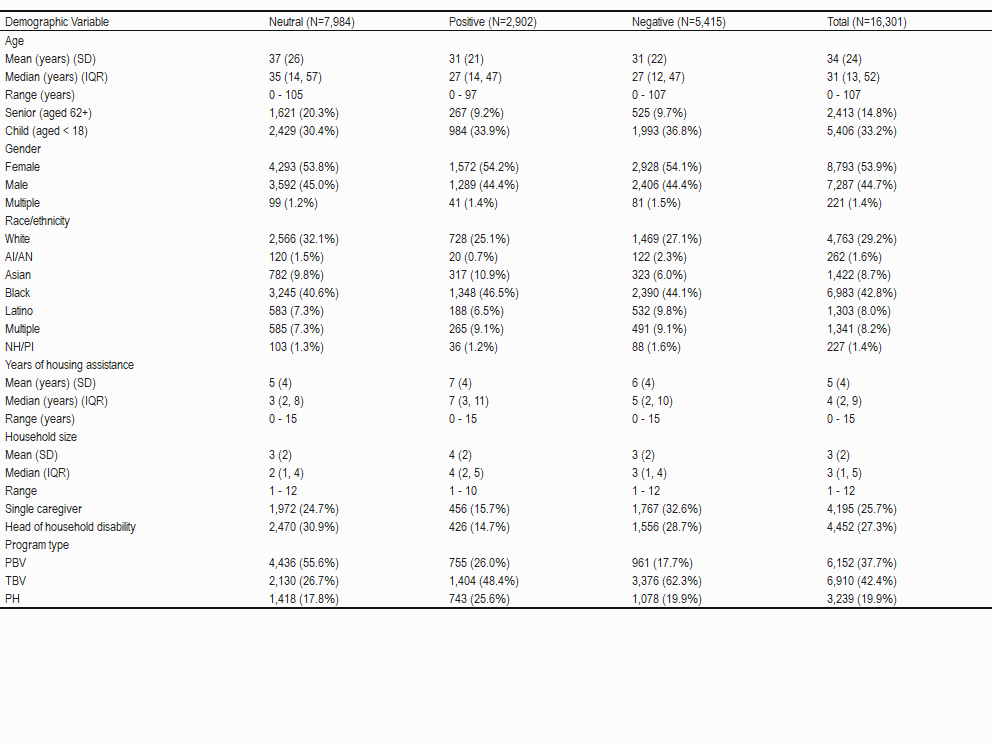
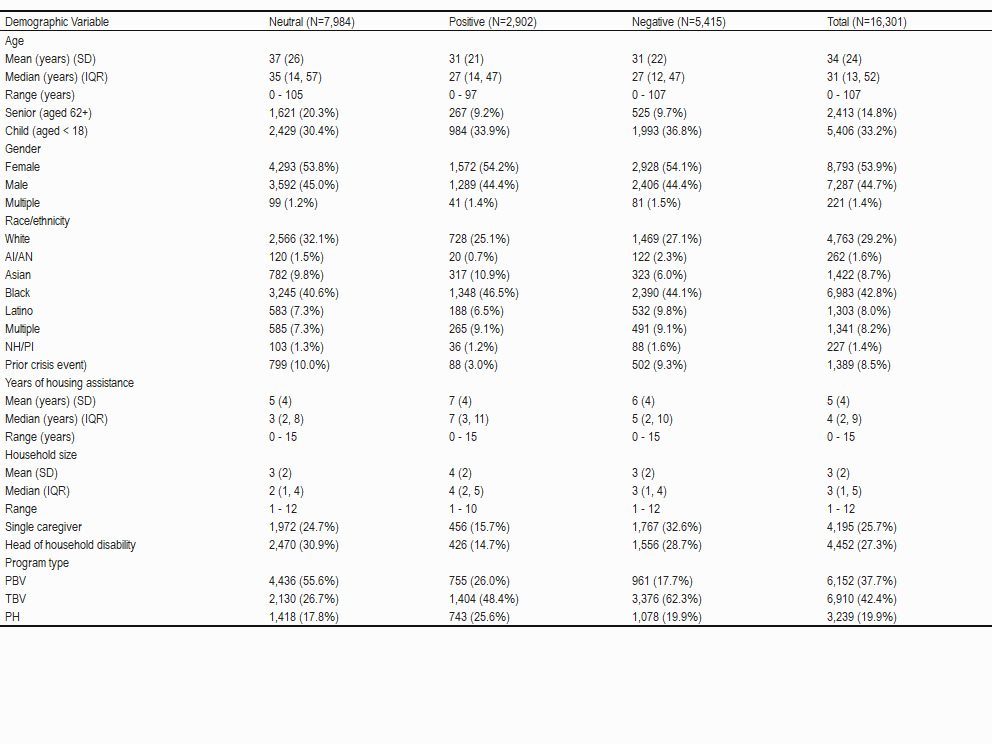
added prior bh events to table

diff --git a/analyses/behavioral/table1.html b/analyses/behavioral/table1.html
@@ -418,6 +418,13 @@ border: 0;
    <td style="text-align:left;"> 227 (1.4%) </td>
   </tr>
   <tr>
+   <td style="text-align:left;"> Prior crisis event) </td>
+   <td style="text-align:left;"> 799 (10.0%) </td>
+   <td style="text-align:left;"> 88 (3.0%) </td>
+   <td style="text-align:left;"> 502 (9.3%) </td>
+   <td style="text-align:left;"> 1,389 (8.5%) </td>
+  </tr>
+  <tr>
    <td style="text-align:left;"> Years of housing assistance </td>
    <td style="text-align:left;">  </td>
    <td style="text-align:left;">  </td>

diff --git a/analyses/behavioral/table1a.html b/analyses/behavioral/table1a.html
@@ -411,7 +411,7 @@ border: 0;
    <td style="text-align:left;"> 91 (1.6%) </td>
   </tr>
   <tr>
-   <td style="text-align:left;"> Previous crisis event </td>
+   <td style="text-align:left;"> Prior crisis event </td>
    <td style="text-align:left;"> 484 (20.6%) </td>
    <td style="text-align:left;"> 96 (9.6%) </td>
    <td style="text-align:left;"> 477 (21.6%) </td>
